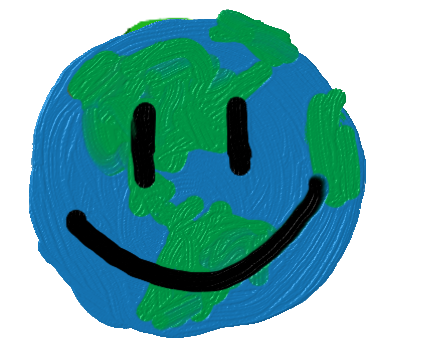
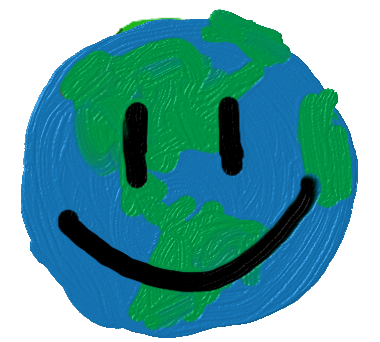
fixed smiley earth :)

diff --git a/index.html b/index.html
@@ -25,7 +25,7 @@
         <a href="#dashboard" data-icon="bars">Dashboard</a>
 		<h1>CO2Navi</h1>
 	</div><!-- /header -->
-    <p style="text-align:center"><img src="smiley-earth.png" align="middle"/></p>
+    <p style="text-align:center"><img src="smiley-earth.png" align="middle" style="width:100%"/></p>
 
 	<div role="main" class="ui-content">
         <!--
